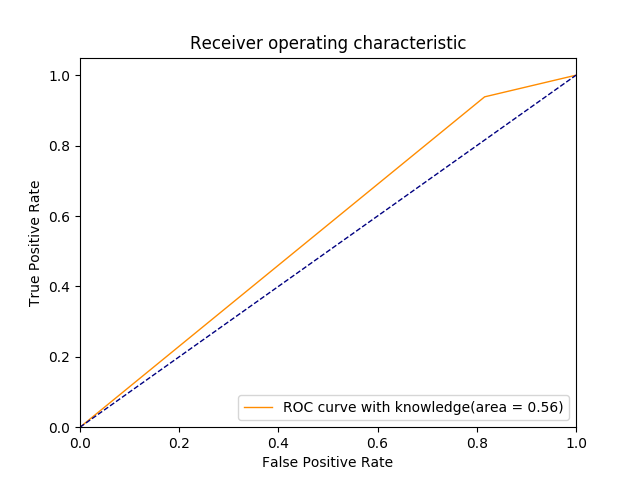
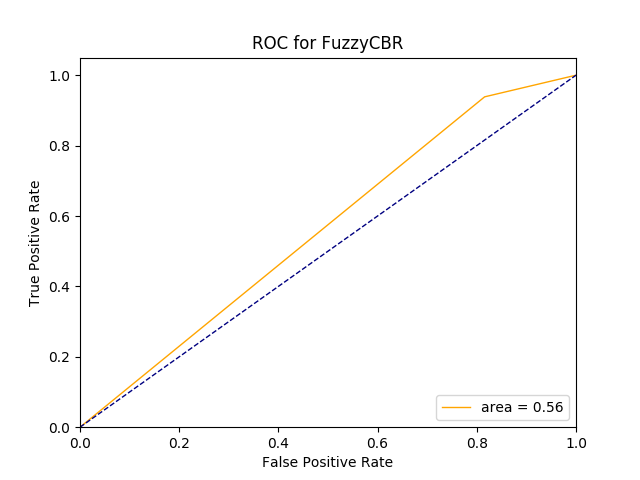
Finally done

Changed region(s): [[0.2812, 0.0625, 0.7188, 0.125], [0.375, 0.8125, 0.875, 0.875]]

diff --git a/src/Attrition/roc.py b/src/Attrition/roc.py
@@ -37,13 +37,13 @@ roc_auc["micro"] = auc(fpr["micro"], tpr["micro"])
 plt.figure()
 lw = 1
 plt.plot(fpr[1], tpr[1], color='red',
-         lw=lw, label='ROC curve without knowledge(area = %0.2f)' % roc_auc[1])
+         lw=lw, label='area = %0.2f' % roc_auc[1])
 plt.plot([0, 1], [0, 1], color='navy', lw=lw, linestyle='--')
 plt.xlim([0.0, 1.0])
 plt.ylim([0.0, 1.05])
 plt.xlabel('False Positive Rate')
 plt.ylabel('True Positive Rate')
-plt.title('Receiver operating characteristic')
+plt.title('ROC for CBR')
 plt.legend(loc="lower right")
 plt.show()
 
